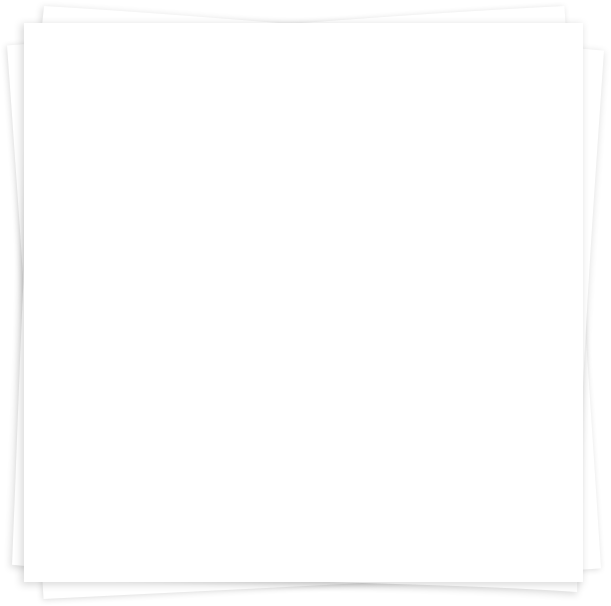
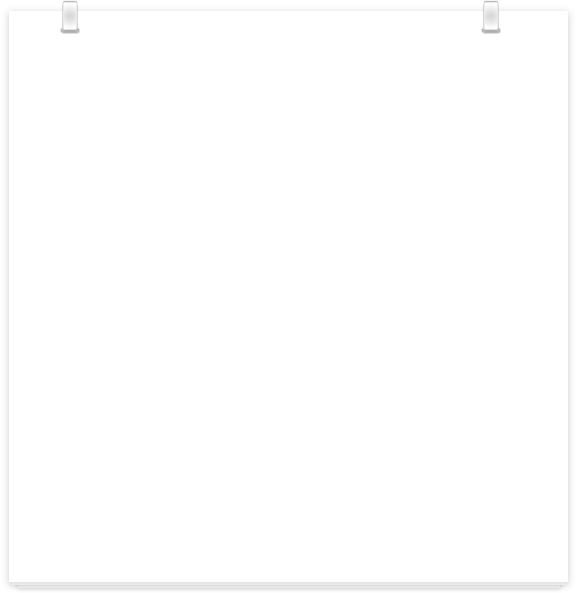
注册页

diff --git a/public/stylesheets/register.css b/public/stylesheets/register.css
@@ -1,7 +1,118 @@
 #register {
-    width: 30%;
-    min-width: 150px;
+    width: 577px;
+    height: 593px;
     box-sizing: border-box;
-    padding: 10px;
-    margin: 30px 35% 0 35%;
+    background-image: url('../images/paper.png');
+    background-size: cover;
+    position: absolute;
+    top: 50%;
+    margin-top: -296.5px;
+    left: 50%;
+    margin-left: -288.5px;
+}
+
+#register-form {
+    width: 400px;
+    height: 450px;
+    position: absolute;
+    top: 71.5px;
+    left: 88.5px;
+}
+
+#logo {
+    margin-bottom: 5px;
+}
+
+#logo > img {
+    display: block;
+    width: 80px;
+    height: auto;
+    margin: 0 auto;
+}
+
+#title {
+    margin-bottom: 15px;
+    text-align: center;
+}
+
+#title > span {
+    color: #333333;
+    font-size: 22px;
+}
+
+#userName, #password, #repasswd, #email {
+    position: relative;
+    margin-bottom: 20px;
+}
+
+span.icon {
+    position: absolute;
+    height: 15px;
+    top: 12.5px;
+    left: 20px;
+}
+
+span.icon > img {
+    display: block;
+    height: 100%;
+    width: auto;
+}
+
+#userName > input, #password > input, #repasswd > input, #email > input {
+    height: 40px;
+    line-height: 40px;
+    padding-left: 70px;
+    padding-right: 15px;
+    color: #999999;
+    font-size: 16px;
+    background-color: #fafafa;
+}
+
+span.display-password {
+    position: absolute;
+    height: 15px;
+    top: 12.5px;
+    right: -30px;
+    cursor: pointer;
+}
+
+span.display-password > img {
+    display: block;
+    height: 100%;
+    width: auto;
+}
+
+div.btns {
+    position: relative;
+}
+
+a.register-btn {
+    display: block;
+    width: 100px;
+    height: 100px;
+    line-height: 95px;
+    text-align: center;
+    background-image: url('../images/loginButton.png');
+    background-size: cover;
+    font-size: 18px;
+    color: #999999;
+    cursor: pointer;
+    position: absolute;
+    top: 0px;
+    left: 150px;
+    font-size: 16px;
+}
+
+a.cancel-btn {
+    font-size: 14px;
+    color: #666666;
+    cursor: pointer;
+    position: absolute;
+    bottom: -200px;
+    width: 100%;
+    text-align: center;
+}
+
+span.cancel-btn {
+    color: #009999;
 }

diff --git a/public/javascripts/controllers.js b/public/javascripts/controllers.js
@@ -3,6 +3,7 @@ myboys.controller('registerCtrl', function ($scope, $http, $location, $cookies) 
     $scope.password = '';
     $scope.repasswd = '';
     $scope.email = '';
+    $scope.passwordType = 'password';
 
     $scope.register = function () {
         if ($scope.userName == '' || $scope.password == '' || $scope.email == '') {
@@ -22,6 +23,7 @@ myboys.controller('registerCtrl', function ($scope, $http, $location, $cookies) 
                 window.location.href = '/';
             }
             else {
+                alert(resp.msg);
             }
         });
     };
@@ -33,7 +35,11 @@ myboys.controller('registerCtrl', function ($scope, $http, $location, $cookies) 
         else {
             window.location.href = '/login';
         }
-    }
+    };
+    $scope.displayPassword = function () {
+        $scope.passwordIsDisplayed = !$scope.passwordIsDisplayed;
+        $scope.passwordType = $scope.passwordType == 'password' ? 'text' : 'password';
+    };
 });
 
 myboys.controller('loginCtrl', function ($scope, $http, $location, $cookies) {
@@ -70,6 +76,7 @@ myboys.controller('loginCtrl', function ($scope, $http, $location, $cookies) {
 
 myboys.controller('homeCtrl', function ($scope, $cookies, $location) {
     $scope.userId = $cookies.userId;
+    $scope.display_mode = !$scope.userId ? 'visitor' : 'user';
 });
 
 function blogAddCtrl($scope, $http) {

diff --git a/public/javascripts/directives.js b/public/javascripts/directives.js
@@ -4,8 +4,6 @@ myboys.directive('menu', function () {
         templateUrl: '/components/menu',
         replace: true,
         controller: function ($scope, $cookies, $location) {
-            $scope.userId = $cookies.userId;
-            $scope.display_mode = !$scope.userId ? 'visitor' : 'user';
             $scope.menu_items = [
                 {name: 'My Story', url: '/blogs/list'},
                 {name: 'Drafts', url: '/blogs/draft'},
@@ -20,9 +18,6 @@ myboys.directive('menu', function () {
             };
             $scope.jump2Other = function (url) {
                 window.location.href = url;
-            };
-            $scope.jump2Login = function () {
-                window.location.href = '/login';
             };
         }
     }

diff --git a/public/stylesheets/home.css b/public/stylesheets/home.css
@@ -9,6 +9,8 @@
     height: 70px;
     line-height: 70px;
     background-color: transparent;
+    position: relative;
+    z-index: 1;
 }
 
 #directive-menu div.logo-and-title {
@@ -153,12 +155,29 @@
 
 #intro-pic {
     margin-bottom: 55px;
+    position: relative;
 }
 
 #intro-pic > img {
     display: block;
     width: 100%;
     height: auto;
+}
+
+#intro-pic > a.get-started {
+    position: absolute;
+    top: 50%;
+    left: 50%;
+    font-size: 14px;
+    color: #ffffff;
+    background-color: #00ccff;
+    border: none;
+    width: 130px;
+    height: 50px;
+    line-height: 50px;
+    border-radius: 25px;
+    padding: 0px;
+    margin-left: -65px;
 }
 
 #posts-display {

diff --git a/public/stylesheets/login.css b/public/stylesheets/login.css
@@ -6,7 +6,7 @@ HTML, body {
     width: 611px;
     height: 606px;
     box-sizing: border-box;
-    background-image: url('../images/paper.png');
+    background-image: url('../images/papers.png');
     background-size: cover;
     position: absolute;
     top: 50%;
@@ -85,7 +85,7 @@ a.login-btn {
     background-image: url('../images/loginButton.png');
     background-size: cover;
     font-size: 18px;
-    color: #333333;
+    color: #999999;
     cursor: pointer;
     position: absolute;
     bottom: 0px;

diff --git a/public/javascripts/services.js b/public/javascripts/services.js
@@ -1,7 +1,7 @@
 var myboys = angular.module('myboys', ['ngCookies', 'ngRoute', 'ngSanitize', 'summernote']);
 
 myboys.config(['$locationProvider', function ($locationProvider) {
-    $locationProvider.html5Mode(true);
+    //$locationProvider.html5Mode(true);
 }]);
 
 myboys.config(['$routeProvider', function ($routeProvider) {
